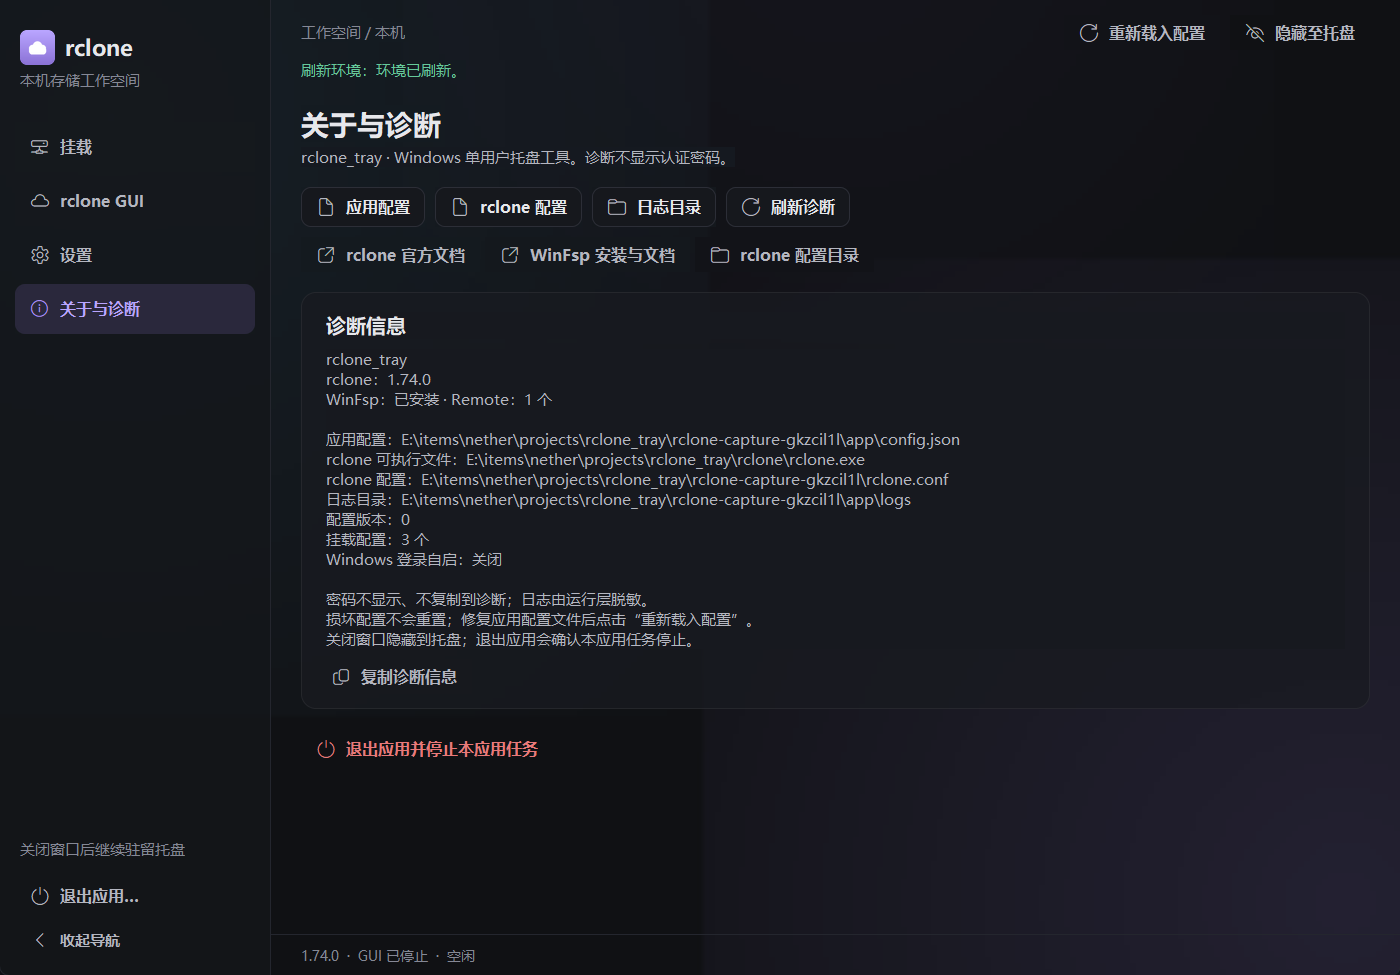
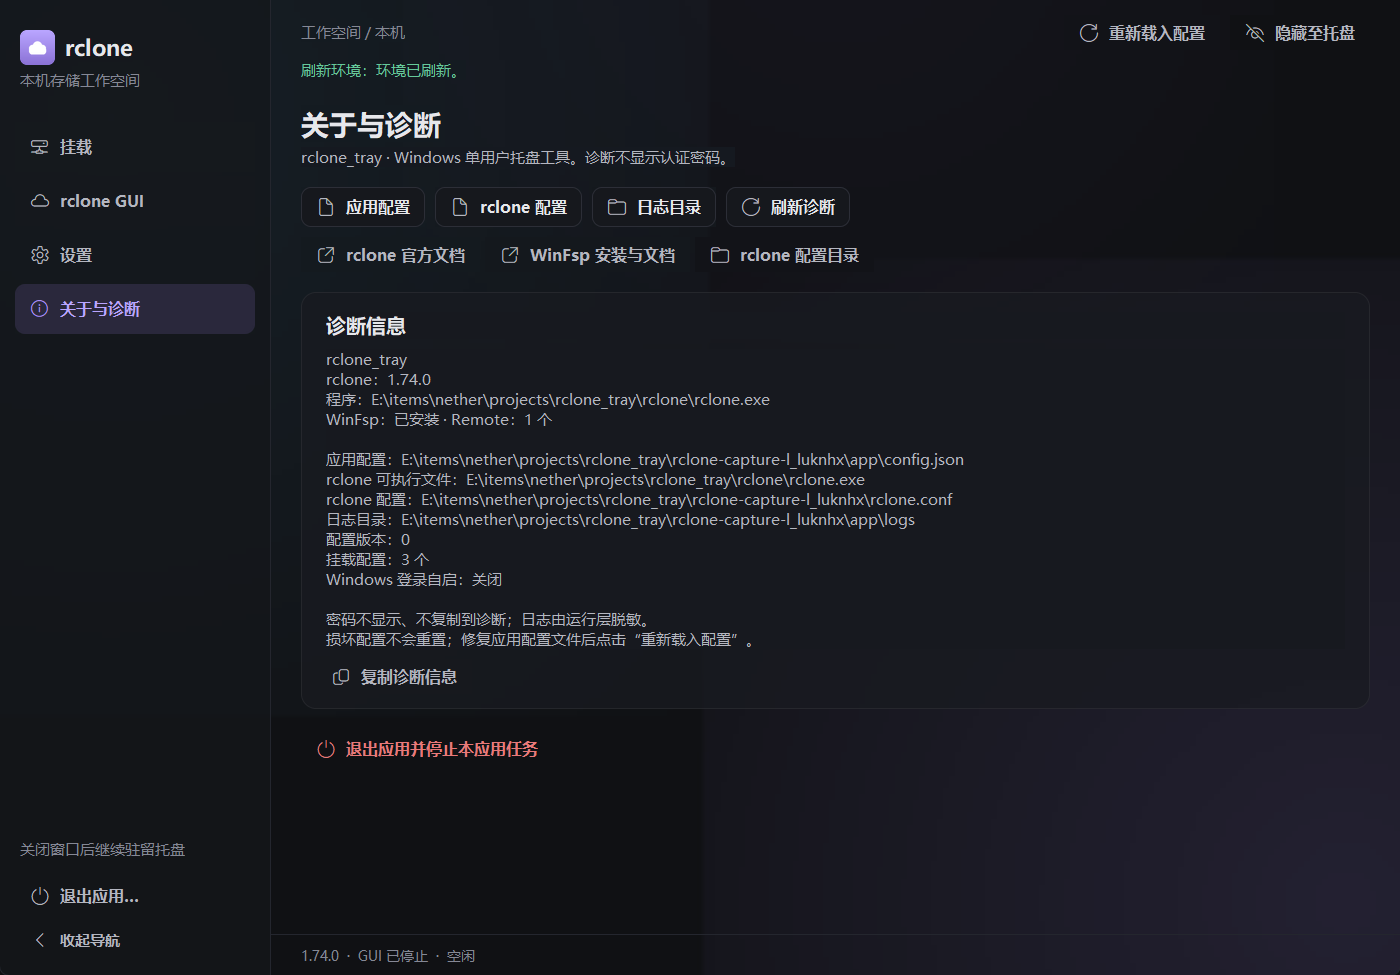
fix: 修复发布前评审问题并重新构建 v2.0.0 产物
- GUI 默认启用认证（gui_no_auth 默认 False）；凭据校验移到启动阶段，
  保存设置不再因缺凭据失败
- 自动发现的 rclone 路径不再写入配置：单文件版内置路径位于临时解包目录，
  落盘会导致下次启动找不到程序且无法保存设置
- 保存设置不再吞掉本次登录排队的自动挂载，按原计划时间重新计时
- 脱敏只对长度 >= 4 的凭据做整词替换，短凭据不再毁掉日志与状态文本
- Tk 事件泵加异常保护，单次刷新失败不再让界面假停
- 新增 5 项回归（共 18 项）；更新 README、验收记录与发布前修复日志；
  重新生成界面截图与打包产物身份（dist 不入库）

Changed region(s): [[0.215, 0.4, 0.6757, 0.6769]]

diff --git a/app/controller.py b/app/controller.py
@@ -6,6 +6,7 @@ import os
 import queue
 import re
 import threading
+import time
 import webbrowser
 from concurrent.futures import ThreadPoolExecutor
 from pathlib import Path
@@ -27,10 +28,12 @@ class Controller:
         self._busy: set[str] = set()
         self._closing = False
         self._timer: threading.Timer | None = None
+        self._mount_deadline: float | None = None
         self._revision = 0
         self._config_error = ""
         self._environment_error = ""
         self._version = ""
+        self._exe = ""
         self._remotes: list[str] = []
         self._winfsp = False
         try:
@@ -55,7 +58,7 @@ class Controller:
             gui, mounts = self.pm.statuses()
             return {"config": copy.deepcopy(self._cfg), "revision": self._revision,
                     "config_error": self._config_error, "gui": gui, "mounts": mounts,
-                    "busy": set(self._busy), "version": self._version,
+                    "busy": set(self._busy), "version": self._version, "exe": self._exe,
                     "remotes": list(self._remotes), "environment_error": self._environment_error,
                     "winfsp": self._winfsp, "closing": self._closing}
 
@@ -154,13 +157,10 @@ class Controller:
                 errors.append("rclone 配置无法读取；请检查文件或使用 rclone config 修复。")
             with self._lock:
                 self._version = version or ""
+                self._exe = str(exe) if version and exe else ""
                 self._remotes = remotes
                 self._winfsp = winfsp_installed()
                 self._environment_error = "\n".join(errors)
-                if version and not cfg.rclone_path:
-                    cfg.rclone_path = str(exe)
-                    self.pm.update_config(cfg)
-                    self._cfg.rclone_path = str(exe)
             return "环境已刷新。" if not errors else "\n".join(errors)
         return self._submit("environment", "refresh_environment", operation)
 
@@ -187,11 +187,9 @@ class Controller:
         exe = find_rclone(cfg.rclone_path)
         if not exe or not get_version(exe):
             raise ValueError("rclone 路径无效：请指定可运行的 rclone.exe。配置未保存。")
-        cfg.rclone_path = str(exe)
         if cfg.rclone_conf and not Path(cfg.rclone_conf).is_file():
             raise ValueError("rclone 配置路径无效：请选择现有文件。")
-        if not cfg.gui_no_auth and (not cfg.gui_user or not cfg.gui_pass):
-            raise ValueError("启用认证时，用户名和密码都必须填写。")
+        # 认证凭据在启动 GUI 时校验：默认需要认证，未填凭据只阻止启动服务，不阻止保存其他设置。
         if any(char in cfg.gui_user + cfg.gui_pass for char in "\r\n\x00"):
             raise ValueError("用户名与密码不能包含换行或空字符。")
 
@@ -201,8 +199,12 @@ class Controller:
             self._validate_settings(candidate)
             with self._lock:
                 candidate.mounts = copy.deepcopy(self._cfg.mounts)
+                deadline = self._mount_deadline
             self._commit(candidate, revision, registry=True)
             self._cancel_timer()
+            if deadline is not None and candidate.auto_mount_on_boot:
+                # 保存设置不应吞掉本次登录已排队的自动挂载；按原计划时间重新计时。
+                self._arm_mount_timer(deadline - time.monotonic())
             self.refresh_environment()
             return "设置已保存；现有运行实例未重新启动。"
         return self._submit("settings", "save_settings", operation)
@@ -372,24 +374,36 @@ class Controller:
             if self._timer:
                 self._timer.cancel()
                 self._timer = None
+            self._mount_deadline = None
+
+    def _arm_mount_timer(self, delay: float):
+        def run():
+            with self._lock:
+                self._timer = None
+                self._mount_deadline = None
+                enabled = self._cfg.auto_mount_on_boot
+            if enabled:
+                self._submit("mounts", "auto_mount", lambda: self._batch_result(self.pm.start_all_mounts(auto_only=True)))
+        delay = max(0.0, float(delay))
+        timer = threading.Timer(delay, run)
+        timer.daemon = True
+        with self._lock:
+            self._timer = timer
+            self._mount_deadline = time.monotonic() + delay
+        timer.start()
 
     def schedule_startup(self, autostart: bool):
         self._cancel_timer()
         if self._config_error:
             return
-        def run():
-            if autostart:
-                with self._lock:
-                    enabled = self._cfg.auto_mount_on_boot
-                if enabled:
-                    self._submit("mounts", "auto_mount", lambda: self._batch_result(self.pm.start_all_mounts(auto_only=True)))
         with self._lock:
-            if autostart and self._cfg.auto_mount_on_boot:
-                self._timer = threading.Timer(self._cfg.mount_delay_seconds, run)
-                self._timer.daemon = True
-                self._timer.start()
-            if self._cfg.gui_auto_start:
-                self.start_gui()
+            arm = autostart and self._cfg.auto_mount_on_boot
+            delay = self._cfg.mount_delay_seconds
+            gui_auto = self._cfg.gui_auto_start
+        if arm:
+            self._arm_mount_timer(delay)
+        if gui_auto:
+            self.start_gui()
 
     def queue_navigation(self, page="mounts", mount_id=""):
         self._events.put({"kind": "navigate", "page": page, "mount_id": mount_id})

diff --git a/ui/settings_window.py b/ui/settings_window.py
@@ -423,7 +423,7 @@ class SettingsWindow:
         Caption(runtime, textvariable=self.gui_saved_var, wrap=px(650)).pack(fill="x", padx=pad, pady=(0, px(T.SPACE_LG)))
         auth = self._form_group(body, "启动与认证")
         self._add_field("service", auth, "gui_auto_start", "随应用启动 GUI", kind="check", hint="每次启动应用时生效，与开机自动挂载无关。")
-        self._add_field("service", auth, "gui_no_auth", "免认证（仅限可信本机）", kind="check", hint="关闭后需填写用户名和密码。修改连接设置前先停止 GUI。")
+        self._add_field("service", auth, "gui_no_auth", "免认证（仅限可信本机）", kind="check", hint="默认需要用户名和密码。勾选后本机任何进程都能调用 rclone RC API，等同于本机命令执行权限。")
         self._add_field("service", auth, "gui_user", "用户名")
         self._add_field("service", auth, "gui_pass", "密码", kind="password", hint="密码不会放入网页 URL。保存设置不会自动重启服务。")
         Clear(auth, height=px(T.SPACE_SM)).pack(fill="x")
@@ -712,7 +712,8 @@ class SettingsWindow:
         self.gui_buttons["start"].set_text("启动中…" if gui.state == "starting" else "启动 GUI")
         self.gui_buttons["stop"].set_text("停止中…" if gui.state == "stopping" else "停止 GUI")
         environment = (f"rclone：{snapshot.get('version') or '未检测到有效版本'}\n"
-                       f"WinFsp：{'已安装' if snapshot.get('winfsp') else '未检测到（挂载依赖）'} · "
+                       + (f"程序：{snapshot['exe']}\n" if snapshot.get("exe") else "")
+                       + f"WinFsp：{'已安装' if snapshot.get('winfsp') else '未检测到（挂载依赖）'} · "
                        f"Remote：{len(snapshot.get('remotes', []))} 个")
         if snapshot.get("environment_error"):
             environment += "\n" + snapshot["environment_error"]
@@ -1040,12 +1041,13 @@ class SettingsWindow:
 
     def _refresh_diagnostics(self, environment: str) -> None:
         cfg = self.snapshot["config"]
+        resolved = str(self.snapshot.get("exe") or "")
         try:
             conf = find_rclone_conf(cfg.rclone_conf)
         except Exception:
             conf = None
         text = (f"rclone_tray\n{environment}\n\n应用配置：{config_path()}\n"
-                f"rclone 可执行文件：{cfg.rclone_path or '自动发现'}\n"
+                f"rclone 可执行文件：{cfg.rclone_path or (resolved + '（自动发现）' if resolved else '自动发现')}\n"
                 f"rclone 配置：{conf or cfg.rclone_conf or '未发现'}\n日志目录：{logs_dir()}\n"
                 f"配置版本：{self.snapshot['revision']}\n挂载配置：{len(cfg.mounts)} 个\n"
                 f"Windows 登录自启：{'启用' if cfg.startup_enabled else '关闭'}\n"

diff --git a/tests/test_controller.py b/tests/test_controller.py
@@ -30,11 +30,15 @@ class ControllerBehaviorTests(unittest.TestCase):
         self.env.stop()
         self.temp.cleanup()
 
-    def result(self):
+    def result(self, key=None):
         deadline=time.monotonic()+5
+        latest=None
         while time.monotonic()<deadline:
-            events=self.controller.drain_events()
-            if events:return events[-1]
+            for event in self.controller.drain_events():
+                if key is None or event.get('key')==key:
+                    latest=event
+            if latest is not None:
+                return latest
             time.sleep(.01)
         self.fail('operation did not settle')
 
@@ -77,6 +81,36 @@ class ControllerBehaviorTests(unittest.TestCase):
         result=self.result()
         self.assertFalse(result['ok'])
         self.assertTrue(self.controller.snapshot()['closing'])
+
+    def test_discovered_rclone_path_is_never_persisted(self):
+        # 单文件版内置 rclone 位于临时解包目录；把它写进配置会让下次启动找不到程序。
+        bundle = str(Path(self.temp.name) / '_MEI123456' / 'rclone' / 'rclone.exe')
+        with patch('app.controller.find_rclone', return_value=bundle), \
+             patch('app.controller.get_version', return_value='1.74.0'):
+            self.controller.refresh_environment()
+            self.assertTrue(self.result('environment')['ok'])
+            snapshot = self.controller.snapshot()
+            self.assertEqual(snapshot['exe'], bundle)
+            self.assertEqual(snapshot['config'].rclone_path, '')
+            self.controller.save_settings(copy.deepcopy(snapshot['config']), snapshot['revision'])
+            self.assertTrue(self.result('settings')['ok'])
+        self.assertEqual(load_config().rclone_path, '')
+
+    def test_saving_settings_keeps_pending_boot_mount(self):
+        self.controller._cfg.mount_delay_seconds = 3600
+        self.controller.schedule_startup(True)
+        self.assertIsNotNone(self.controller._timer)
+        with patch.object(self.controller.pm, 'start_all_mounts') as start:
+            snapshot = self.controller.snapshot()
+            self.controller.save_settings(copy.deepcopy(snapshot['config']), snapshot['revision'])
+            self.assertTrue(self.result('settings')['ok'])
+            self.assertIsNotNone(self.controller._timer)
+            start.assert_not_called()
+            disabled = copy.deepcopy(self.controller.snapshot()['config'])
+            disabled.auto_mount_on_boot = False
+            self.controller.save_settings(disabled, self.controller.snapshot()['revision'])
+            self.assertTrue(self.result('settings')['ok'])
+            self.assertIsNone(self.controller._timer)
 
 
 if __name__=='__main__':unittest.main()

diff --git a/main.py b/main.py
@@ -63,28 +63,35 @@ def main() -> None:
             window.show()
 
         def pump():
-            for event in controller.drain_events():
-                if event.get("kind") == "navigate":
-                    page = event.get("page", "mounts")
-                    if page == "exit":
-                        window.request_exit()
+            try:
+                for event in controller.drain_events():
+                    if event.get("kind") == "navigate":
+                        page = event.get("page", "mounts")
+                        if page == "exit":
+                            window.request_exit()
+                        else:
+                            window.show(page=page, mount_id=event.get("mount_id", ""))
                     else:
-                        window.show(page=page, mount_id=event.get("mount_id", ""))
-                else:
-                    window.handle_event(event)
-                    if not event.get("ok") and root.state() == "withdrawn":
-                        notify("rclone_tray", "操作未完成；请打开托盘中的挂载管理查看原因。")
-                    if event.get("key") == "shutdown" and event.get("ok"):
-                        tray.stop()
-                        controller.close_executor()
-                        root.destroy()
-                        return
-            snapshot = controller.snapshot()
-            window.refresh(snapshot)
-            tray.refresh(snapshot)
-            if tray.error and root.state() == "withdrawn":
-                window.show()
-            root.after(120, pump)
+                        window.handle_event(event)
+                        if not event.get("ok") and root.state() == "withdrawn":
+                            notify("rclone_tray", "操作未完成；请打开托盘中的挂载管理查看原因。")
+                        if event.get("key") == "shutdown" and event.get("ok"):
+                            tray.stop()
+                            controller.close_executor()
+                            root.destroy()
+                            return
+                snapshot = controller.snapshot()
+                window.refresh(snapshot)
+                tray.refresh(snapshot)
+                if tray.error and root.state() == "withdrawn":
+                    window.show()
+            except Exception:
+                # 单帧刷新失败不应让事件泵停摆：记录后继续下一帧，避免界面假死。
+                logging.exception("UI pump failure")
+            try:
+                root.after(120, pump)
+            except tk.TclError:
+                logging.info("UI 循环结束：窗口已销毁。")
 
         root.after(120, pump)
         root.mainloop()

diff --git a/tests/test_runtime.py b/tests/test_runtime.py
@@ -65,5 +65,23 @@ class RuntimeOwnershipTests(unittest.TestCase):
         self.assertIsNone(self.child.poll())
 
 
+class RedactionTests(unittest.TestCase):
+    def test_short_secret_does_not_destroy_log_text(self):
+        from core.processes import _safe_text
+        self.assertEqual(_safe_text('mount a failed; pass=secret1', ('a',)), 'mount a failed; pass=[redacted]')
+
+    def test_long_secret_is_still_removed(self):
+        from core.processes import _safe_text
+        self.assertEqual(_safe_text('token abcdef echoed', ('abcdef',)), 'token [redacted] echoed')
+
+    def test_default_gui_requires_credentials(self):
+        import threading
+        from core.processes import GuiService
+        gui = GuiService(AppConfig(rclone_path=sys.executable), threading.Event())
+        with patch('core.processes.find_rclone', return_value=sys.executable), \
+             patch('core.processes.get_version', return_value='1.74.0'):
+            self.assertIn('必须填写用户名和密码', gui._preflight())
+
+
 if __name__ == "__main__":
     unittest.main()

diff --git a/core/processes.py b/core/processes.py
@@ -48,7 +48,8 @@ def _safe_text(text: str, sensitive: tuple[str, ...] = ()) -> str:
     text = re.sub(r"(?i)((?:--)?(?:rc-)?(?:pass(?:word)?|user(?:name)?|login_token|token|secret|authorization)\s*(?:=|:)\s*)(?:\"[^\"]*\"|'[^']*'|[^\s,;]+)",
                   r"\1[redacted]", text)
     for value in sorted(set(sensitive), key=len, reverse=True):
-        if value:
+        # 过短的凭据整词替换会毁掉诊断文本；短值交给上面的正则处理。
+        if len(value) >= 4:
             text = text.replace(value, "[redacted]")
             encoded = urllib.parse.quote(value, safe="")
             if encoded != value:

diff --git a/core/config.py b/core/config.py
@@ -160,7 +160,7 @@ class MountConfig:
 @dataclass
 class AppConfig:
     rclone_path: str = ""
-    gui_no_auth: bool = True
+    gui_no_auth: bool = False
     gui_user: str = field(default="", repr=False)
     gui_pass: str = field(default="", repr=False)
     gui_auto_start: bool = False

diff --git a/devlog/2026-11-01-发布前修复.md b/devlog/2026-11-01-发布前修复.md
@@ -1,0 +1,37 @@
+# 2026-11-01：发布前审查修复（v2.0.0）
+
+## 背景
+
+界面重构完成后准备发布。发布前做了一轮独立代码审查（只读评审，未改动文件），随后按评审结论修复发布阻塞问题，再重新构建并验证打包产物。
+
+## 评审结论与处理
+
+| # | 问题 | 处理 |
+| --- | --- | --- |
+| 1 | `gui_no_auth` 默认 `True`，新用户开箱即以 `--no-auth` 把 rclone RC API 暴露在本机 5572 端口；RC 等价于本机命令执行权限 | **已修**：默认 `False`（需要用户名/密码）。保存设置不再因缺凭据而失败，凭据校验移到启动 GUI 前；服务页提示改为说明免认证的实际风险 |
+| 2 | 自动发现的 rclone 路径被写回配置文件。单文件版内置 rclone 位于 `%TEMP%\_MEIxxxx`，下次启动该目录已不存在，导致“未找到有效 rclone”且无法保存设置 | **已修**：`Controller` 用 `_exe` 单独保存解析结果，`refresh_environment`/`_validate_settings` 都不再改写 `cfg.rclone_path`；设置页与诊断显示解析到的程序路径 |
+| 3 | 异常终止（崩溃、任务管理器结束）后 rclone 子进程残留，应用拒绝接管外部实例 | **未修**（记录为已知限制）：需要 Job Object 接管子进程生命周期，属于新增系统集成，未在发布前改动。README 写明排查方式 |
+| 4 | 保存任意设置会取消开机自动挂载的延迟任务，且不重新计时 | **已修**：记录计划时间点 `_mount_deadline`，保存成功后按剩余时间重新计时；关闭“开机自动挂载”仍会取消 |
+| 5 | 短凭据（如单字符用户名）参与整词脱敏，把日志与状态消息替换成 `[redacted]` | **已修**：仅对长度 ≥ 4 的凭据做整词替换，短值交给正则规则 |
+| 6 | Tk 事件泵没有异常保护，一次刷新异常就停止投递结果，界面表现为假死 | **已修**：泵体 `try/except` 记录异常后继续下一帧；`root.after` 仅在窗口仍存在时重新挂载 |
+
+评审同时确认：凭据不进入日志/URL/诊断；进程不会重复启动，停止失败不丢所有权；配置写入为临时文件 + `fsync` + `os.replace` + 校验和比较，未知字段/缺字段/类型错误/重复键都会拒绝而不是重置。
+
+## 变更文件
+
+- `core/config.py`：`gui_no_auth` 默认值。
+- `core/processes.py`：`_safe_text` 短凭据处理。
+- `app/controller.py`：`_exe` 与 `snapshot()["exe"]`、不改写自动发现路径、保存后重新计时自动挂载、凭据校验移交启动阶段。
+- `main.py`：事件泵异常保护。
+- `ui/settings_window.py`：解析到的程序路径显示、免认证提示文案。
+- `README.md`：认证默认值与自动发现不落盘的说明。
+- `tests/`：新增 5 项回归（路径不落盘、保存后保留挂载计划、短/长凭据脱敏、默认需要认证），共 18 项。
+
+## 验证
+
+- `.venv\Scripts\python.exe -m unittest discover -s tests`：18 项通过。
+- `tools\capture_ui.py` 与 `--light`：深色/浅色各 6 张截图，`CAPTURE PASS`。
+- 重新构建 `dist\rclone_tray.exe`（PyInstaller 6.22.3，内置 rclone 1.74.0），隔离数据目录与可写 TEMP 启动：主窗口 `rclone_tray · 挂载` 出现、`app.log` 创建且无 traceback、版本与 WinFsp 状态正确；截图 `docs/evidence/stencil-package-main.png`。
[1 lines of base64/hex data omitted]
+
+未复跑挂载/GUI 端到端流程：这些模块本轮只改了脱敏规则与认证默认值，端到端证据沿用 `docs/验收记录.md` 中 2026-10-31 的记录，`build-manifest.json` 已注明。

diff --git a/docs/验收记录.md b/docs/验收记录.md
@@ -78,3 +78,15 @@
 - 真实鼠标/键盘遍历（Tab 顺序、IME 组合、拖动滚动条）未在本轮全部实测；焦点环、Escape 与 grab 归还逻辑为移植实现并经脚本调用验证。
 - 模拟玻璃不是真实背景模糊；环境光强度在 125% 缩放的单显示器上目视调校，高对比度主题与多显示器未审计。
 - 新产物只验证了启动与主窗口；挂载/GUI/托盘/退出链路的打包验收沿用 2026-10-31 记录，运行层代码未变但未对本产物重跑。
+
+## 发布前审查修复（2026-11-01）
+
+发布前的只读评审发现 6 项问题，其中 5 项已修并补回归，1 项（异常终止后 rclone 子进程残留，需 Job Object）记录为已知限制。详情与决策见[开发日志：发布前修复](../devlog/2026-11-01-发布前修复.md)。
+
+| 范围 | 实际操作与结果 |
+| --- | --- |
+| 回归 | `python -m unittest discover -s tests`：18 项通过（新增：自动发现路径不落盘、保存设置保留自动挂载计划、短/长凭据脱敏、默认需要认证）。 |
+| 界面证据 | `tools/capture_ui.py`（深色、浅色）：各 6 张截图，`CAPTURE PASS`；提示文案与诊断中的程序路径已更新。 |
+| 打包产物 | 重新构建单 EXE；隔离数据目录 + 可写 TEMP 启动，主窗口出现、日志无 traceback；截图 `evidence/stencil-package-main.png`。身份见 `dist/build-manifest.json` 与 `dist/rclone_tray.exe.sha256`。 |
+
+认证默认值变更：新配置默认 `gui_no_auth = False`，未填用户名/密码时只阻止启动 GUI，不阻止保存其他设置。已保存配置中的原值不变。

diff --git a/docs/项目计划.md b/docs/项目计划.md
@@ -5,7 +5,7 @@
 
 ## 1. 依据与事实边界
 
-- **设计依据**：[通用软件交互设计文档](../../magpie_front/docs/software-interaction-design.md)。采用任务拆分、业务规则、信息架构、操作契约、状态分层、UI 规范和验收方法；不照搬 magpie 的业务模块。该链接依赖相邻的 `magpie_front` 项目，不是本项目打包运行依赖。
+- **设计依据**：《通用软件交互设计文档》（本地参考资料，未随本仓库发布）。采用任务拆分、业务规则、信息架构、操作契约、状态分层、UI 规范和验收方法；不照搬其业务模块，也不是本项目打包运行依赖。
 - **产品基线**：[README](../README.md)、[配置模型](../core/config.py)、[进程管理](../core/processes.py)、[托盘](../app/tray.py)、[设置窗口](../ui/settings_window.py)、[挂载编辑器](../ui/mount_sheet.py)。源码事实不等于运行验收通过。
 - **已执行检查**：实际配置回归、Tk 界面、托盘、盘符/网络/目录挂载、现代与旧 GUI 浏览器、注册表交易读回；环境、结果和未验证边界见[验收记录](验收记录.md)。
 - **已确认决策**：用户批准完整实现与可用构建交付，并批准安装官方 WinFsp。业务代码与文档已切换；仅隔离验证修改临时数据，原用户配置未被替换。
